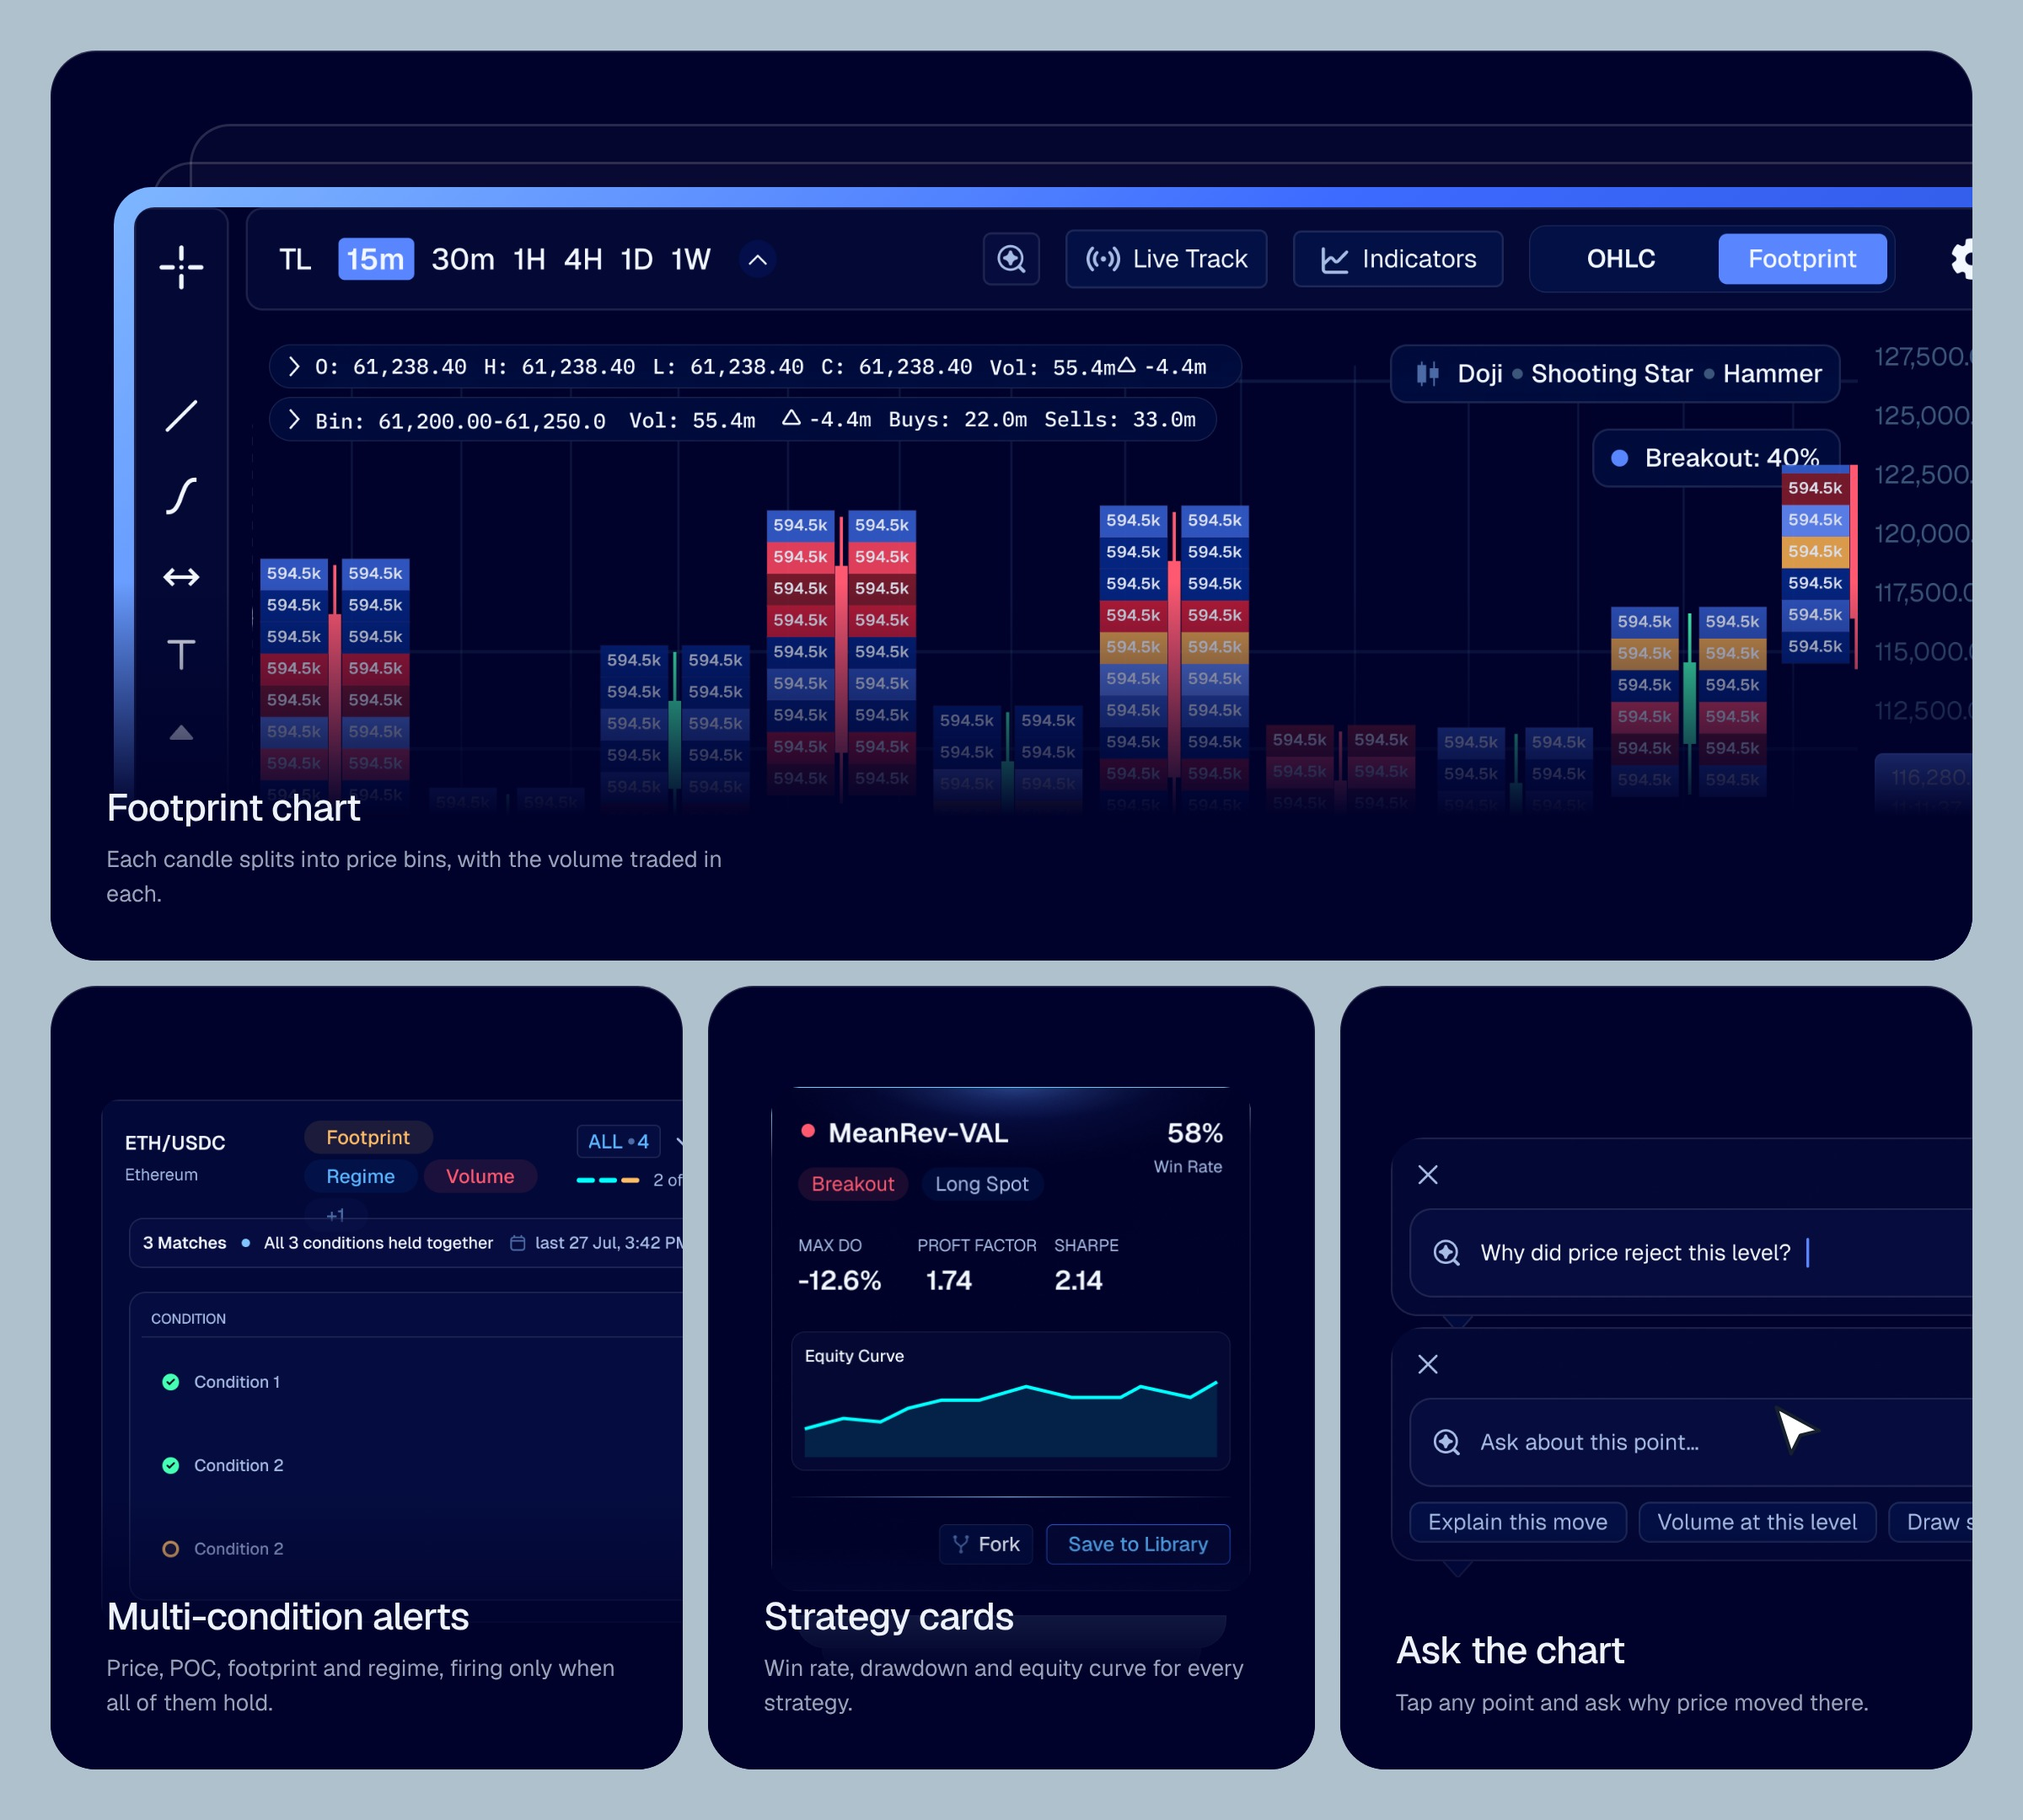
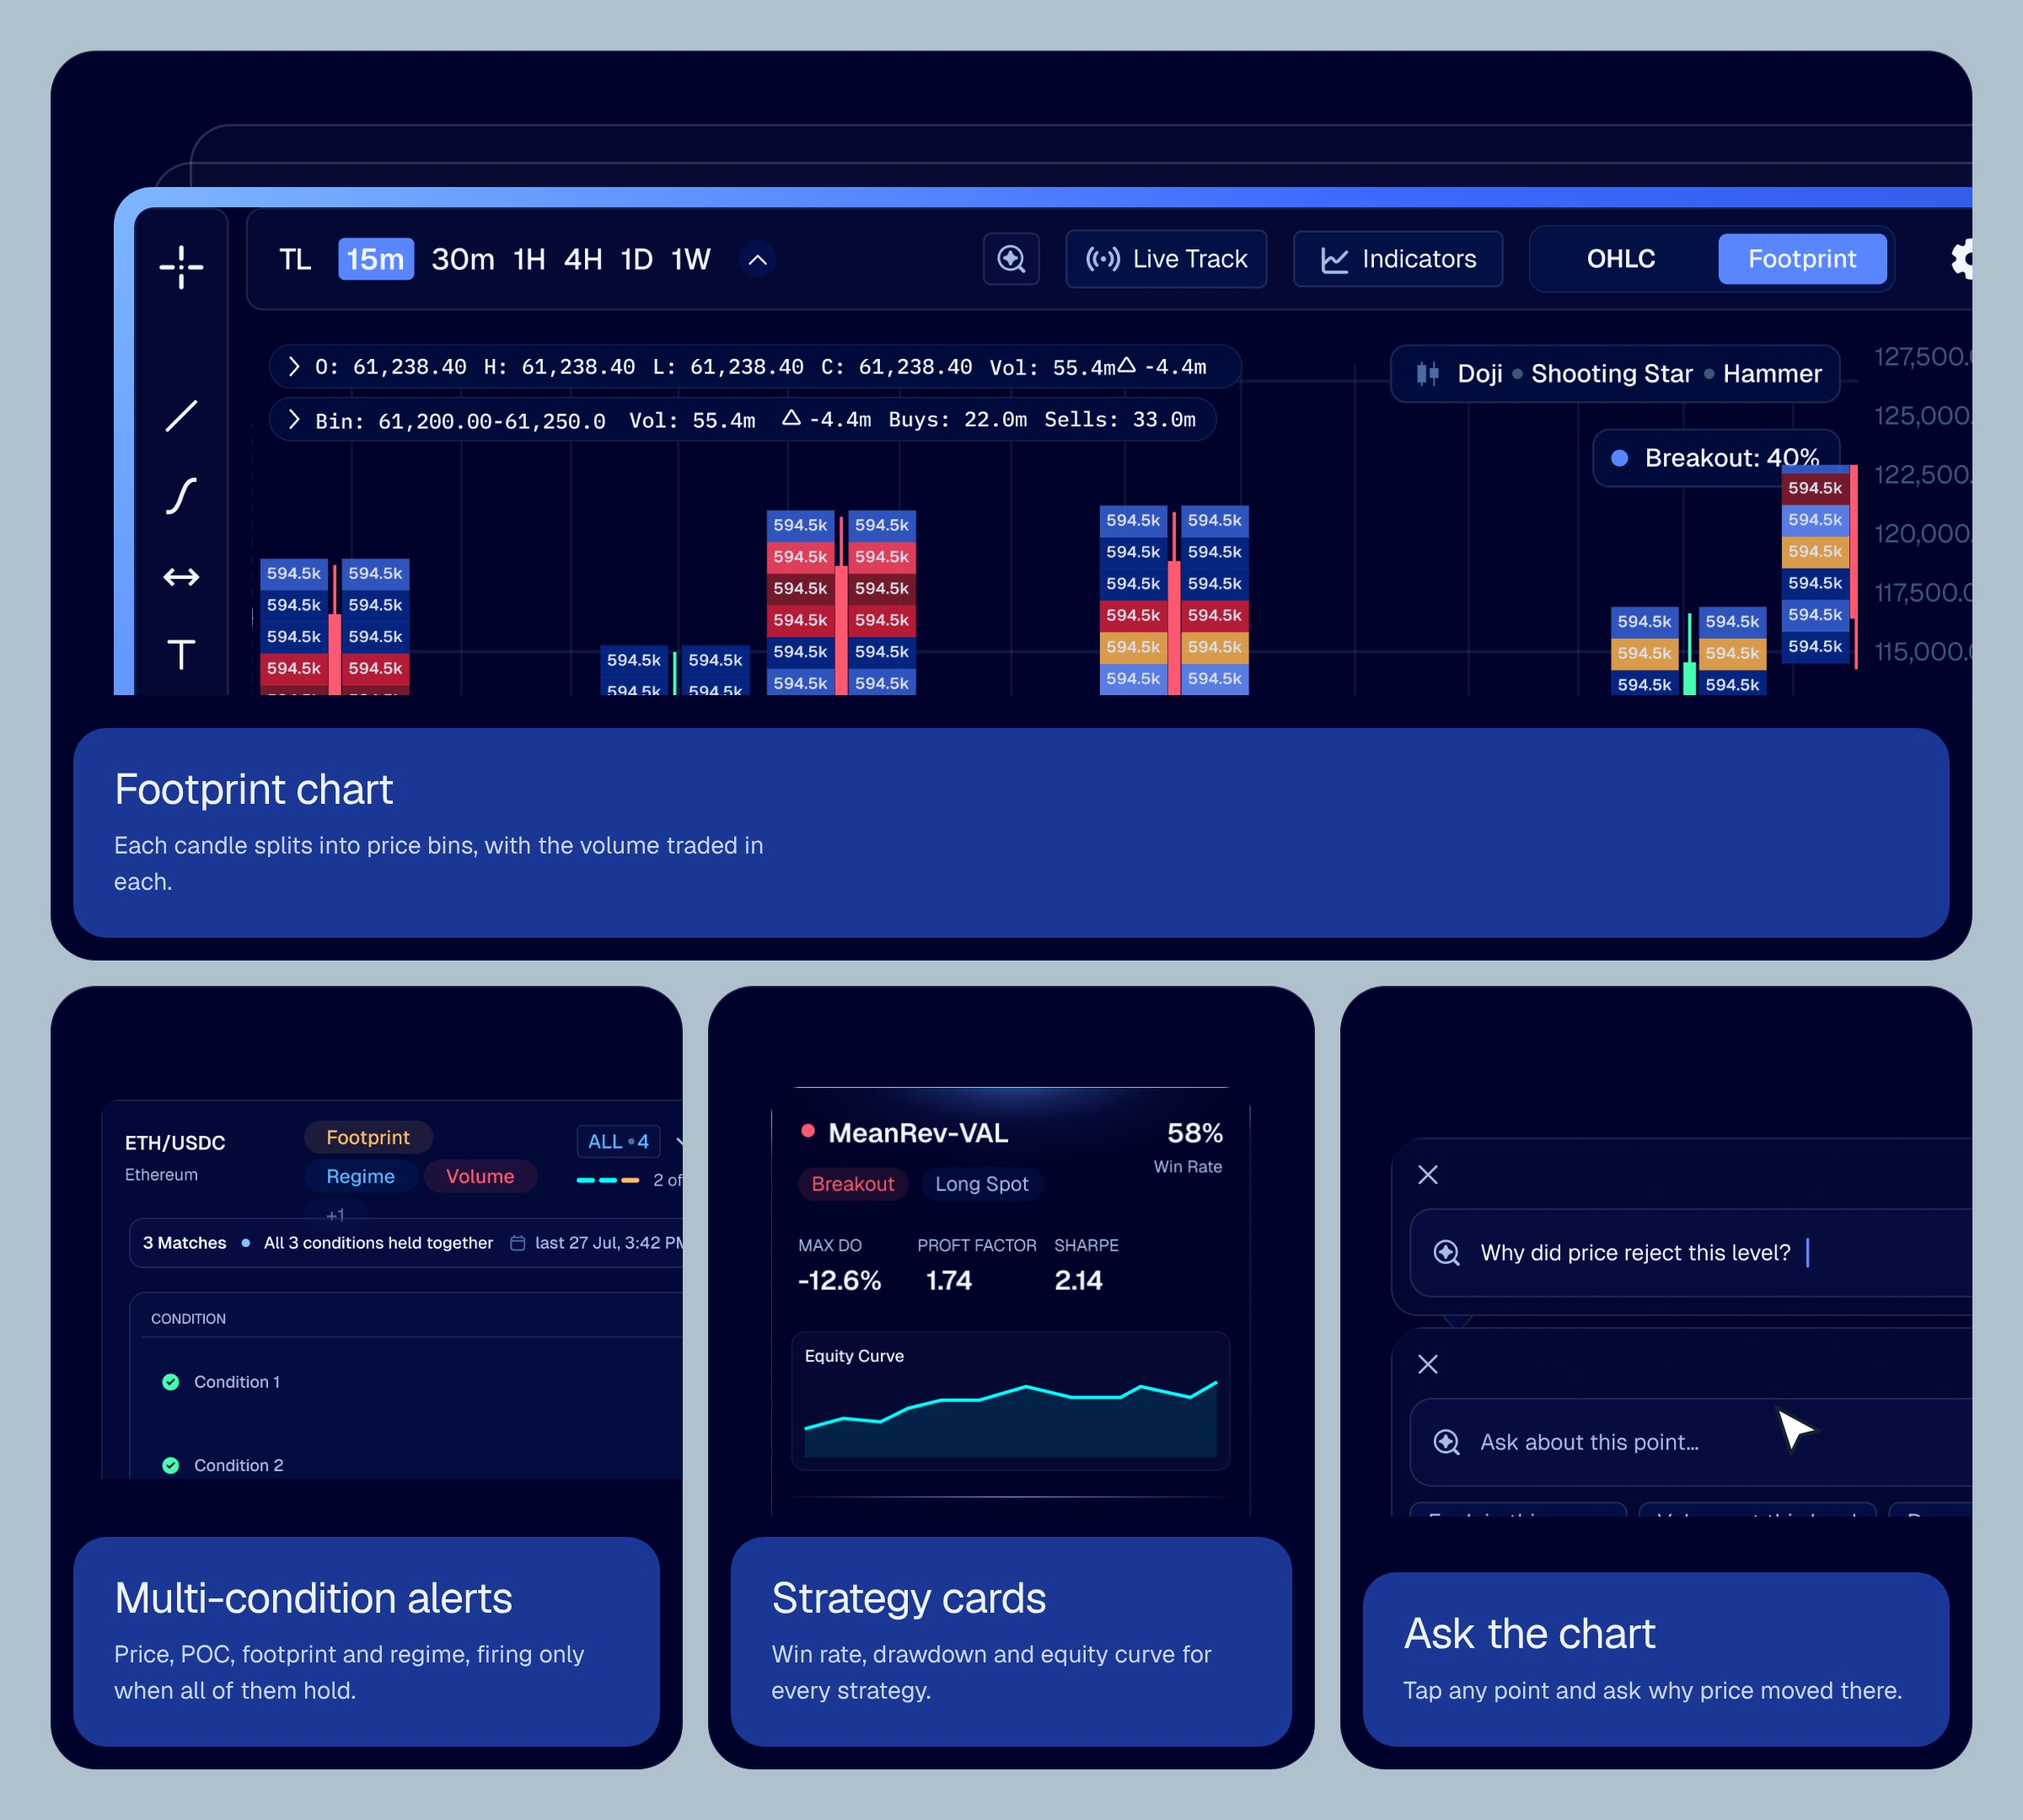
Jaadu bento: text in solid blue boxes, no fade layer
Claude-Session: https://claude.ai/code/session_01L48ecgvWMXiCwrAdC3aGTG

Changed region(s): [[0.0312, 0.3102, 1.0, 0.5273], [0.0312, 0.8375, 0.9688, 0.9616]]

diff --git a/scripts/mockups/jaadu/bento.html b/scripts/mockups/jaadu/bento.html
@@ -5,17 +5,17 @@
 body{margin:0;background:#fff}
 .pg{position:relative;width:1600px;overflow:hidden;margin:0 0 60px;background:#B0C1CE;font-family:Geist,sans-serif}
 .t{position:absolute;overflow:hidden;border-radius:36px;background:#00022B;box-shadow:inset 0 0 0 1px rgba(255,255,255,.08),inset 0 1px 0 rgba(255,255,255,.1)}
-.t .cap{position:absolute;left:44px;right:44px;bottom:40px;z-index:4}
-.t .cap h3{margin:0;font:500 30px/1.15 Geist;color:#EEF2FA;letter-spacing:-.02em}
-.t .cap p{margin:10px 0 0;font:400 18px/1.5 Geist;color:#98A3BA;max-width:520px}
+.t .cap{position:absolute;left:18px;right:18px;bottom:18px;z-index:4;border-radius:26px;background:#1A3796;padding:30px 32px;box-sizing:border-box}
+.t .cap h3{margin:0;font:400 34px/1.1 Geist;color:#EEF2FA;letter-spacing:-.02em}
+.t .cap p{margin:12px 0 0;font:400 19px/1.5 Geist;color:#C9D6F5;max-width:560px}
 .t .fade{position:absolute;left:0;right:0;bottom:0;z-index:3;background:linear-gradient(180deg,rgba(0,2,43,0),#00022B 62%)}
 .c{position:absolute;z-index:2;display:block;border-radius:18px}
 .glow{position:absolute;z-index:2;border-radius:30px;padding:16px;background:linear-gradient(135deg,#7FB6FF,#3D6BFF 40%,#2346C8)}
 .glow img{display:block;border-radius:16px}
 .ghost{position:absolute;z-index:1;border-radius:32px;border:2px solid rgba(255,255,255,.14);background:rgba(255,255,255,.02)}
-.wide .side{position:absolute;left:56px;top:0;bottom:0;width:440px;display:flex;flex-direction:column;justify-content:center}
-.wide .side h3{margin:0;font:500 44px/1.12 Geist;color:#EEF2FA;letter-spacing:-.025em}
-.wide .side p{margin:20px 0 0;font:400 20px/1.55 Geist;color:#98A3BA}
+.wide .side{position:absolute;left:18px;top:18px;bottom:18px;width:480px;box-sizing:border-box;padding:56px 48px;border-radius:26px;background:#1A3796;display:flex;flex-direction:column;justify-content:flex-end}
+.wide .side h3{margin:0;font:400 50px/1.12 Geist;color:#EEF2FA;letter-spacing:-.025em}
+.wide .side p{margin:20px 0 0;font:400 21px/1.55 Geist;color:#C9D6F5}
 .stackbar{position:absolute;z-index:1;border-radius:0 0 22px 22px;background:#22304F;box-shadow:inset 0 0 0 1px rgba(255,255,255,.06)}
 .gb{position:absolute;z-index:2;padding:14px;border-radius:30px;background:linear-gradient(145deg,rgba(255,255,255,.18),rgba(255,255,255,.04) 45%,rgba(130,170,255,.10));backdrop-filter:blur(20px);box-shadow:inset 0 1px 0 rgba(255,255,255,.4)}
 .gb::before{content:'';position:absolute;inset:0;border-radius:inherit;padding:1.6px;pointer-events:none;background:linear-gradient(135deg,#fff 0%,#9fdcff 14%,rgba(110,160,255,.28) 42%,rgba(110,160,255,.08) 62%,#6f8dff 86%,#d2c4ff 100%);-webkit-mask:linear-gradient(#000 0 0) content-box,linear-gradient(#000 0 0);-webkit-mask-composite:xor;mask-composite:exclude}
@@ -25,7 +25,7 @@ body{margin:0;background:#fff}
 <script>
 const F='feat/'
 const P=(id,h,inner)=>`<div class="pg" id="${id}" style="height:${h}px">${inner}</div>`
-const T=(l,t,w,h,inner,title,body,fade=170)=>`<div class="t" style="left:${l}px;top:${t}px;width:${w}px;height:${h}px">${inner}<div class="fade" style="height:${fade}px"></div><div class="cap"><h3>${title}</h3><p>${body}</p></div></div>`
+const T=(l,t,w,h,inner,title,body,cap=210)=>`<div class="t" style="left:${l}px;top:${t}px;width:${w}px;height:${h}px"><div style="position:absolute;left:0;top:0;right:0;height:${h-cap}px;overflow:hidden">${inner}</div><div class="cap"><h3>${title}</h3><p>${body}</p></div></div>`
 const im=(n,w,l,t,r=18)=>`<img class="c" src="${F}${n}.png" style="left:${l}px;top:${t}px;width:${w}px;border-radius:${r}px">`
 const cursor=(l,t)=>`<svg style="position:absolute;left:${l}px;top:${t}px;z-index:3;" width="46" height="50" viewBox="0 0 20 22"><path d="M2 1.5l15 8.2-6.6 1.6-3.2 6.4z" fill="#FFFFFF" stroke="#16202F" stroke-width="1.2" stroke-linejoin="round"/></svg>`
 const S=[]
@@ -34,15 +34,15 @@ S.push(P('p1',1440,
  T(40,40,1520,720,
    `<div class="ghost" style="left:110px;top:58px;width:1500px;height:700px"></div><div class="ghost" style="left:80px;top:88px;width:1500px;height:700px"></div>`+
    `<div class="glow" style="left:50px;top:108px"><img src="${F}fp.png" style="width:1500px"></div>`,
-   'Footprint chart','Each candle splits into price bins, with the volume traded in each.',300)+
- T(40,780,500,620,im('c-alert',1300,40,90,14),'Multi-condition alerts','Price, POC, footprint and regime, firing only when all of them hold.',220)+
+   'Footprint chart','Each candle splits into price bins, with the volume traded in each.',210)+
+ T(40,780,500,620,im('c-alert',1300,40,90,14),'Multi-condition alerts','Price, POC, footprint and regime, firing only when all of them hold.',230)+
  T(560,780,480,620,`<div class="stackbar" style="left:90px;top:520px;width:300px;height:26px"></div><div class="stackbar" style="left:70px;top:498px;width:340px;height:26px;background:#2B3B60"></div>`+im('card1',380,50,80,22),'Strategy cards','Win rate, drawdown and equity curve for every strategy.',200)+
  T(1060,780,500,620,im('c-prompt-typing',560,40,120,26)+im('c-prompt-suggested',560,40,270,26)+cursor(340,330),'Ask the chart','Tap any point and ask why price moved there.',200)))
 // Page 2: wide Overnight Discoveries, then comparison + deja vu
 S.push(P('p2',1220,
  `<div class="t wide" style="left:40px;top:40px;width:1520;width:1520px;height:560px"><div class="side"><h3>Set it up. Wake up to a shortlist.</h3><p>Quant Lab tests hundreds of strategies overnight. Only the survivors reach your morning list.</p></div>${im('funnel-only',940,580,70,24)}</div>`+
  T(40,620,960,560,im('cmp',1300,40,60,18),'Strategy comparison','Five metrics side by side, the best in each column highlighted.',200)+
- T(1020,620,540,560,im('deja-outcome',600,40,50,22),'Déjà Vu','Finds look-alike setups in market history and what happened next.',290)))
+ T(1020,620,540,560,im('deja-outcome',600,40,50,22),'Déjà Vu','Finds look-alike setups in market history and what happened next.',200)))
 // Page 3: wide Library
 S.push(P('p3',800,
  `<div class="t wide" style="left:40px;top:40px;width:1520px;height:720px"><div class="side"><h3>Every strategy, one library</h3><p>Filter by regime, run a backtest, paper trade or fork, all from the card.</p></div><div class="gb" style="left:520px;top:52px"><img src="${F}library-screen.png" style="width:940px"></div></div>`))
